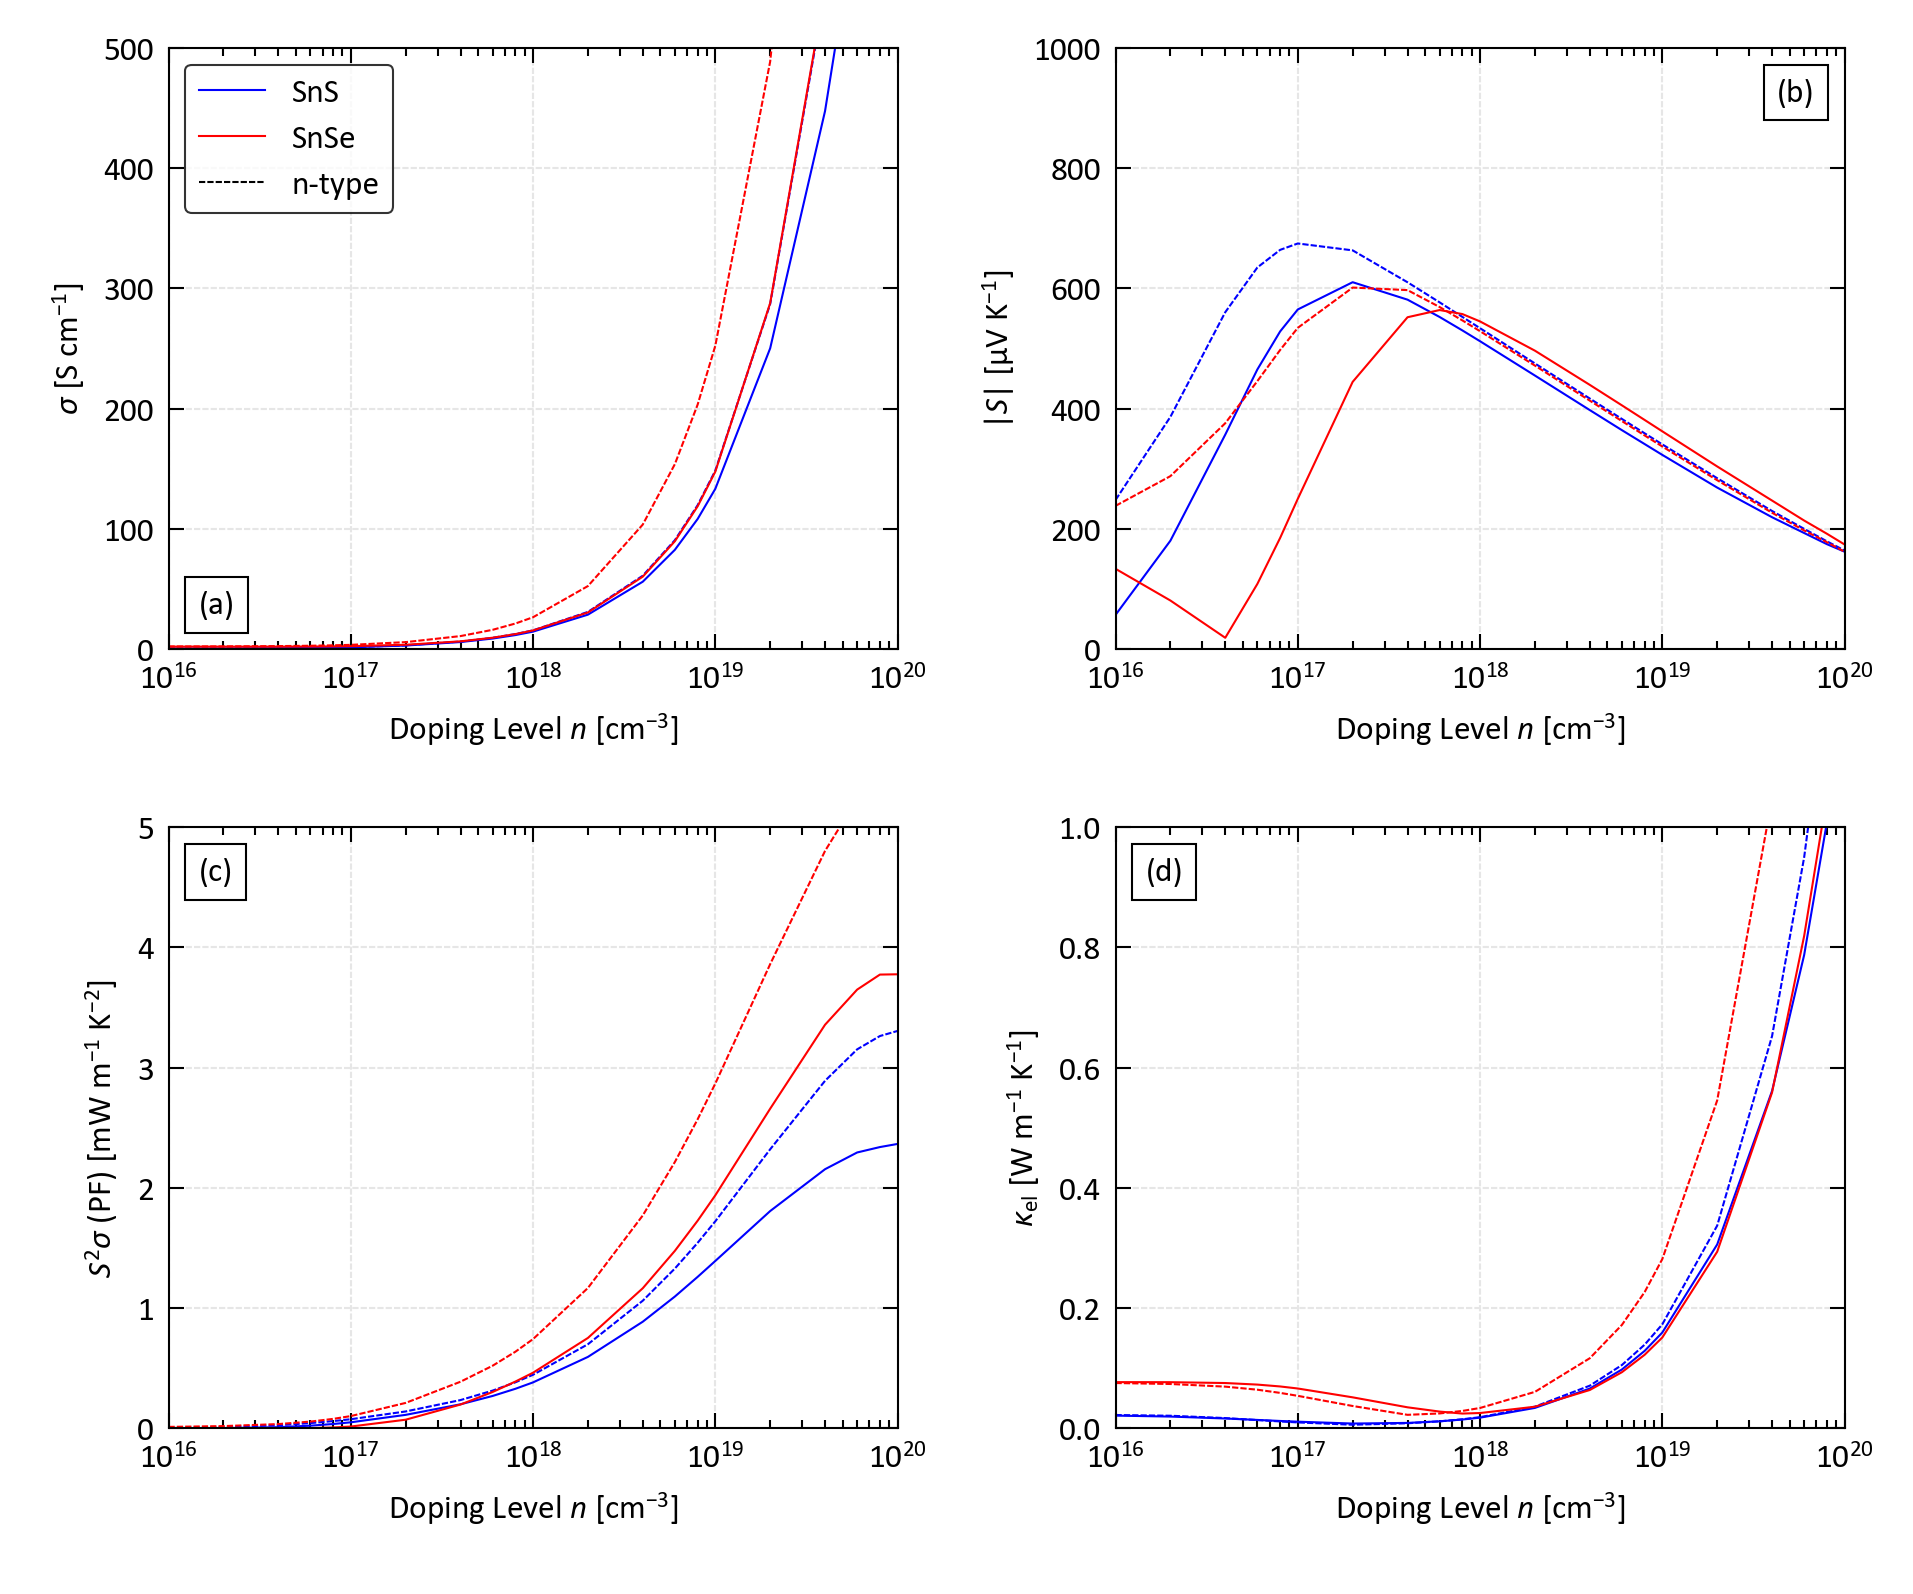
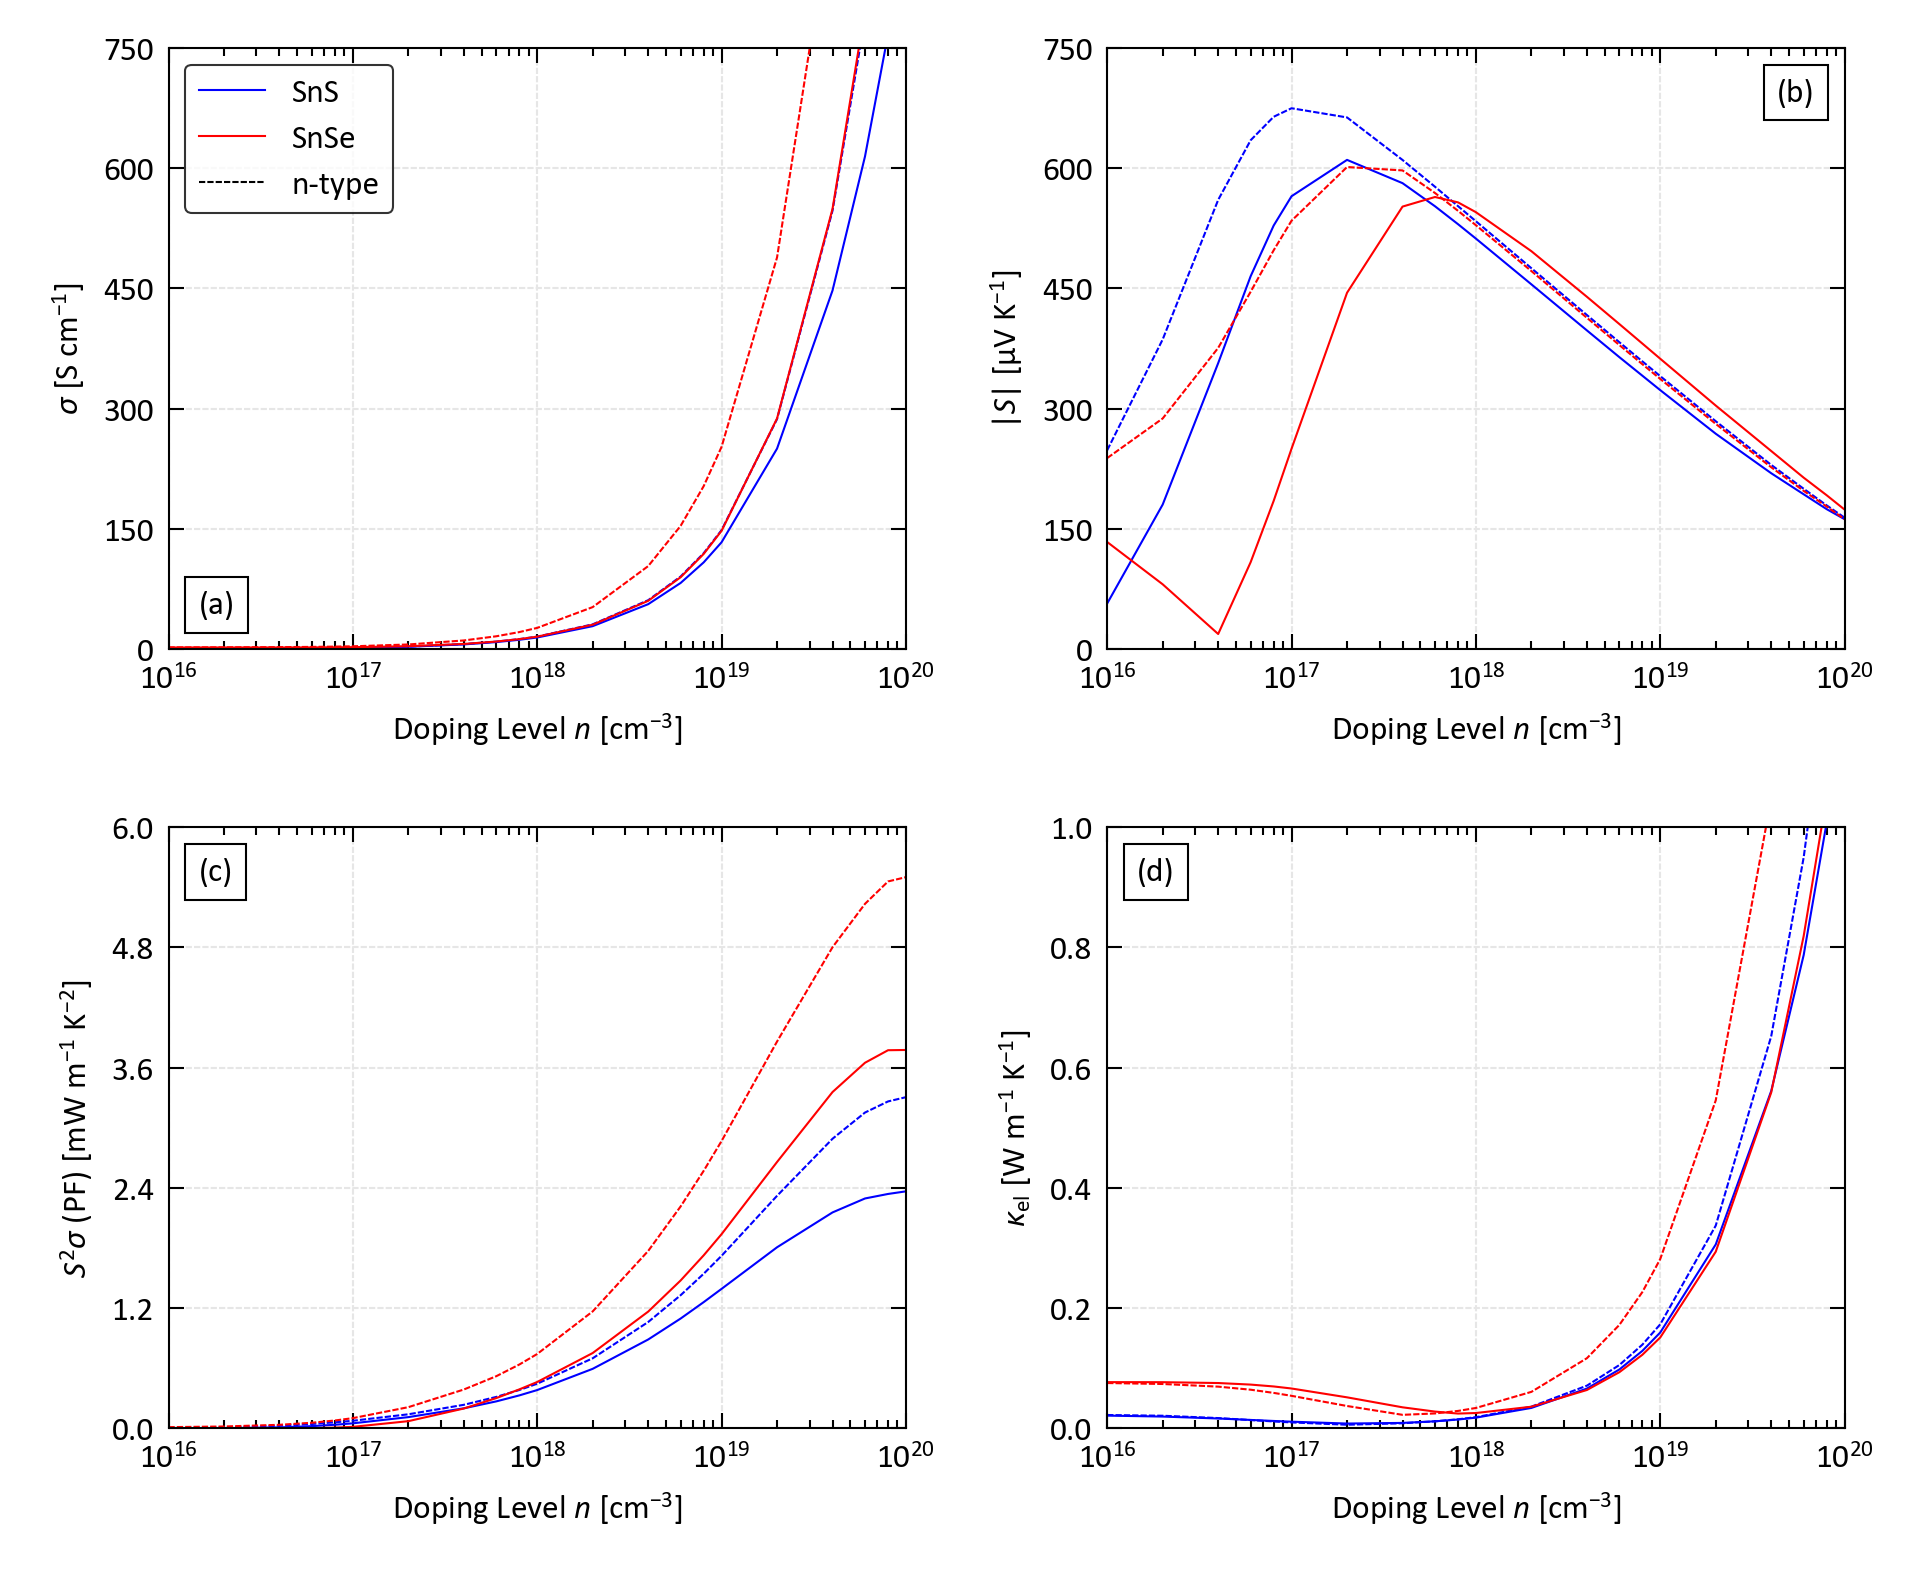
Update examples
Update SnS-SnSe-ZT example with minor changes to elec_n_plot.py script and output.

diff --git a/example/SnS-SnSe-ZT/elec_n_plot.py b/example/SnS-SnSe-ZT/elec_n_plot.py
@@ -47,7 +47,7 @@ if __name__ == "__main__":
     colours = ['b', 'r']
 
     xlim = (1.0e16, 1.0e20)
-    ylim_sets = [(0.0, 500.0), (0.0, 1000.0), (0.0, 5.0), (0.0, 1.0)]
+    ylim_sets = [(0.0, 750.0), (0.0, 750.0), (0.0, 6.0), (0.0, 1.0)]
 
     # Plot.
     
@@ -88,6 +88,9 @@ if __name__ == "__main__":
 
     for axes, ylim in zip(subplot_axes, ylim_sets):
         axes.set_ylim(ylim)
+        
+        y_min, y_max = ylim
+        axes.set_yticks(np.linspace(y_min, y_max, 6))
 
     for axes in subplot_axes:
         axes.set_xlabel(r"Doping Level $n$ [cm$^{-3}$]")

diff --git a/example/SnS-SnSe-ZT/README.md b/example/SnS-SnSe-ZT/README.md
@@ -15,7 +15,7 @@ This example contains the following example scripts:
 
 This script plots a comparison of the electrical conductivity <i>&sigma;</i>, Seebeck coefficient *S*, power factor <i>S</i><sup>2</sup><i>&sigma;</i> (PF) and electrical thermal conductivity <i>&kappa;</i><sub>el</sub> of p- and n-type *Pnma* SnS and SnSe as a function of doping level *n* at a fixed *T* = 700 K.
 
-<p align="center"><img src="elec_n_plot.png" width="60%"></p>
+<p align="center"><img src="elec_n_plot.png" width="75%"></p>
 
 ### 2. `zt_plot.py`
 
